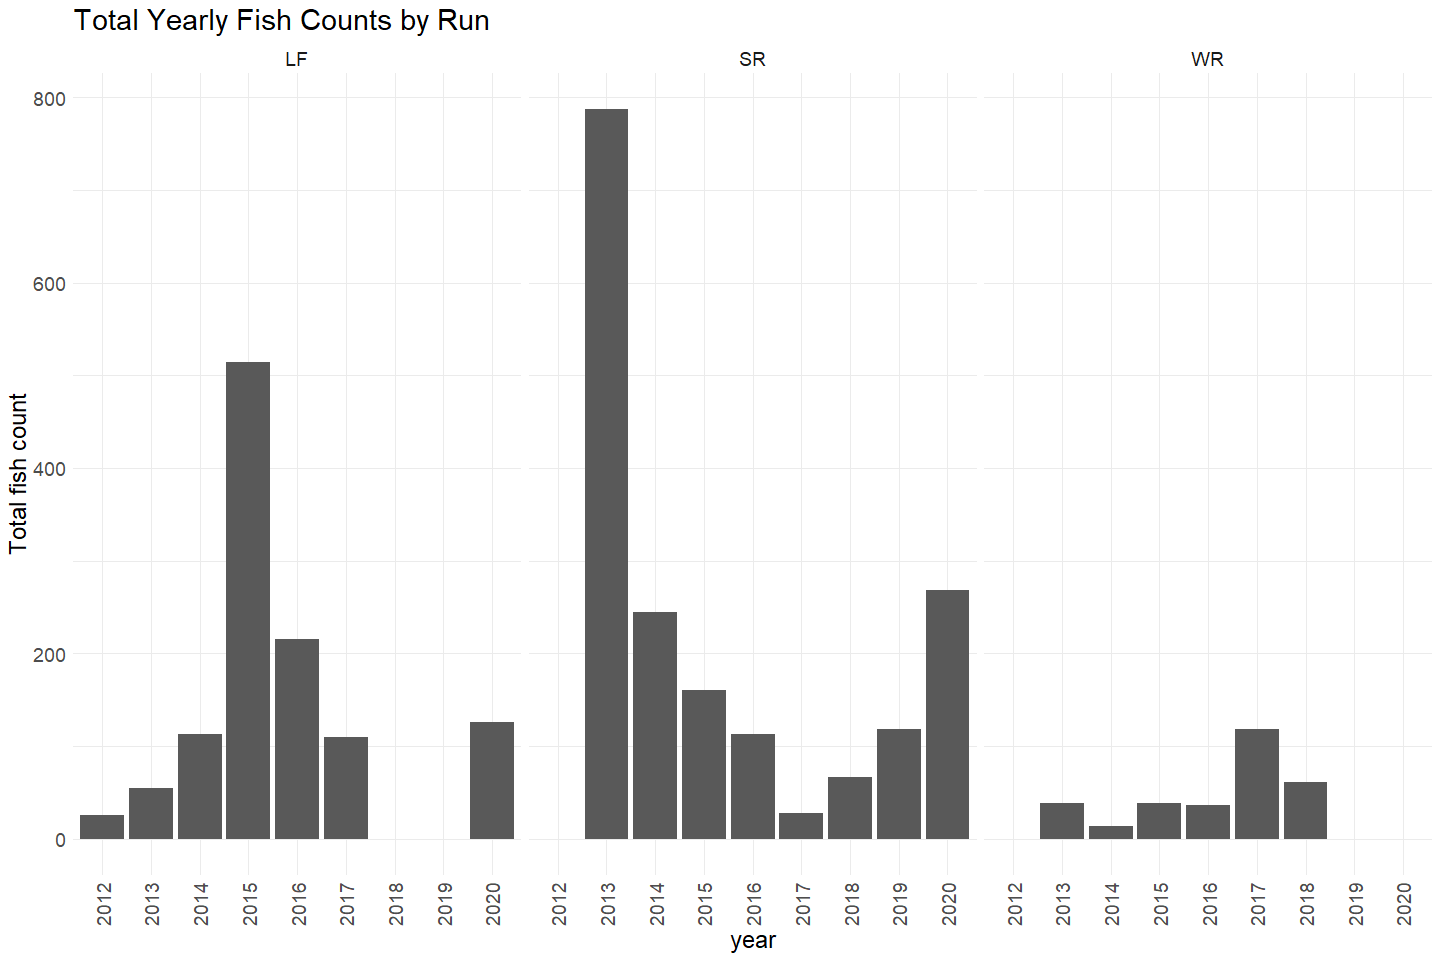
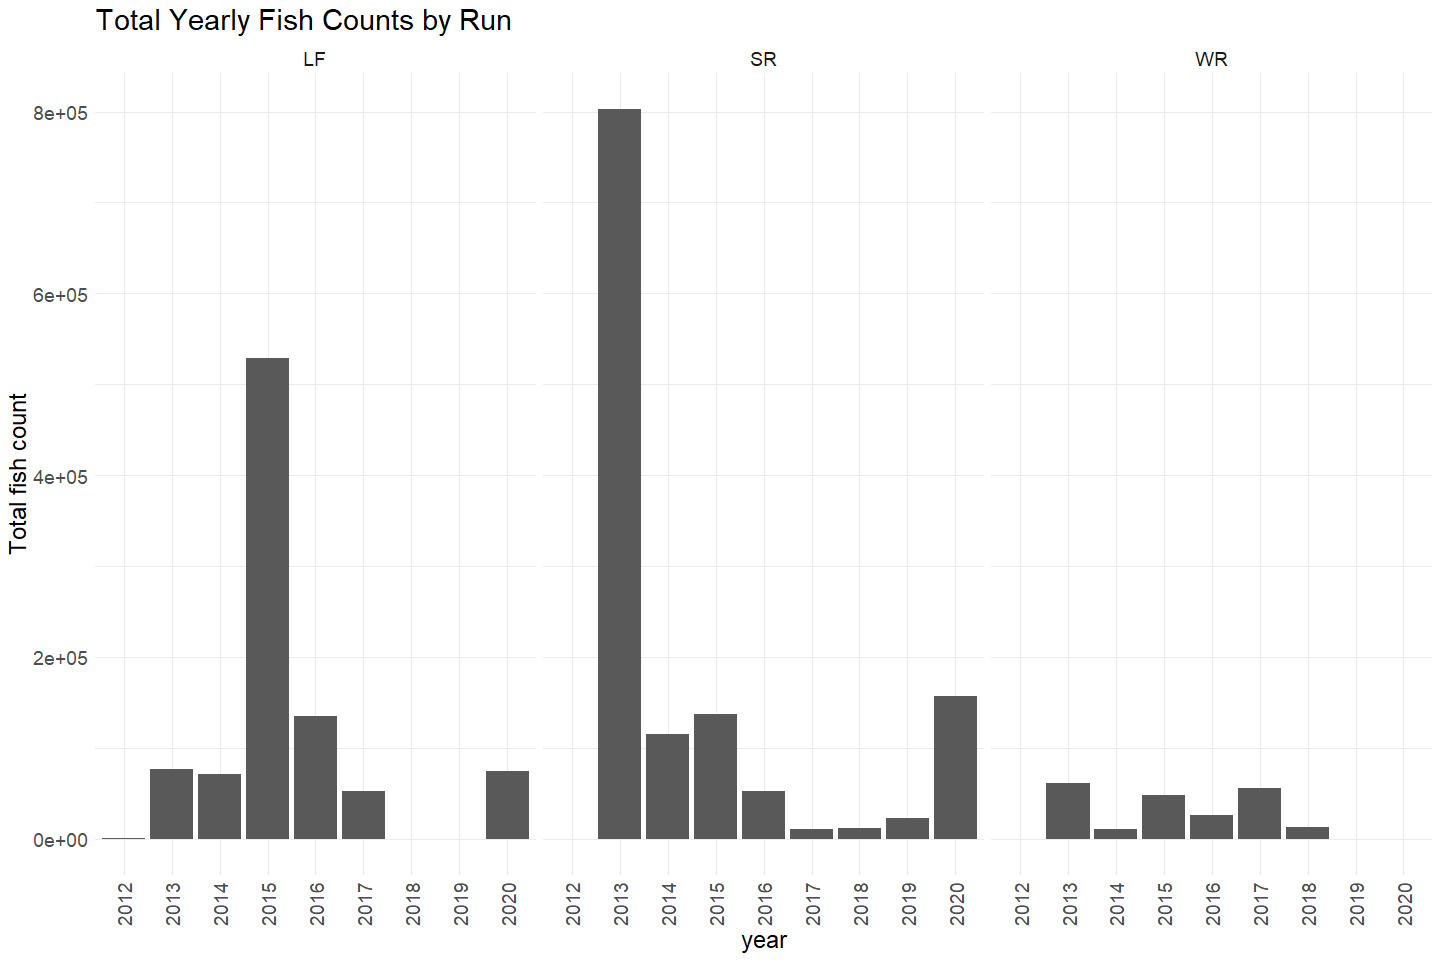
Edits to clear creek upstream markdown doc

diff --git a/scripts/adult-upstream-passage-monitoring/clear-creek/clear-creek-qc-checklist.md b/scripts/adult-upstream-passage-monitoring/clear-creek/clear-creek-qc-checklist.md
@@ -11,7 +11,7 @@ Erin Cain
 
 **Timeframe:** 2013-2020
 
-**Video Season:** TODO
+**Video Season:** August through December
 
 **Completeness of Record throughout timeframe:** Data are not padded -
 missing data indicate a period where footage was not collected by USFWS
@@ -200,7 +200,10 @@ cleaner_video_data %>% group_by(date) %>%
 cleaner_video_data  %>%
   mutate(year = as.factor(year(date))) %>%
   filter(run %in% c("LF", "SR", "WR")) %>% # Filter to only show runs that have more than one data point and are not NA/Unknown
-  ggplot(aes(x = year, y = up)) + 
+  group_by(year(date)) %>%
+  mutate(total_catch = sum(up)) %>%
+  ungroup() %>%
+  ggplot(aes(x = year, y = total_catch)) + 
   geom_col() + 
   theme_minimal() +
   labs(title = "Total Yearly Fish Counts by Run",
@@ -297,7 +300,10 @@ cleaner_video_data %>% group_by(date) %>%
 cleaner_video_data  %>%
   mutate(year = as.factor(year(date))) %>%
   filter(run %in% c("LF", "SR", "WR")) %>%
-  ggplot(aes(x = year, y = down)) + 
+  group_by(year(date)) %>%
+  mutate(total_catch = sum(down)) %>%
+  ungroup() %>%
+  ggplot(aes(x = year, y = total_catch)) + 
   geom_col() + 
   theme_minimal() +
   labs(title = "Total Yearly Fish Counts by Run",
@@ -332,7 +338,7 @@ cleaner_video_data %>% group_by(date) %>%
 
 **NA and Unknown Values**
 
--   0 % of values in the `up` column are NA.
+-   0 % of values in the `down` column are NA.
 
 ## Explore Categorical variables:
 
@@ -533,7 +539,7 @@ cleaner_video_data$run = if_else(cleaner_video_data$run == "UNK", "unknown", cle
 **NA or Unknown Values**
 
 -   21.3 % of values in the `run` column are NA.
--   0.7 % of values in the `run` column are`unknown`.
+-   1.2 % of values in the `run` column are`unknown`.
 
 ``` r
 clear_passage <- cleaner_video_data %>% 
